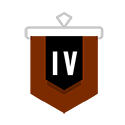
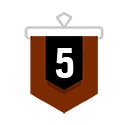
temporal assets

Changed region(s): [[0.408, 0.384, 0.624, 0.624]]

diff --git a/packages/lobby/src/utils/preview.ts b/packages/lobby/src/utils/preview.ts
@@ -8,11 +8,25 @@ export async function createLobbyPreview(n: number, m: number, k: number = 0) {
     if (n === m) {
         if (n === 0) {
             n = 0;
-            m = 20;
+            m = 23;
         } else {
-            n--;
-            n = n - n % 4 + 1;
-            m = n + 3;
+            switch (true) {
+                case n > 0 && n <= 5:
+                    n = 1; m = 5;
+                    break;
+                case n > 5 && n <= 10:
+                    n = 6; m = 10;
+                    break;
+                case n > 10 && n <= 15:
+                    n = 11; m = 15;
+                    break;
+                case n > 15 && n <= 19:
+                    n = 16; m = 19;
+                    break;
+                case n > 19:
+                    n = 20; m = 23;
+                    break;
+            }
         }
     }
     const preview = Canvas.createCanvas(160, 160);
